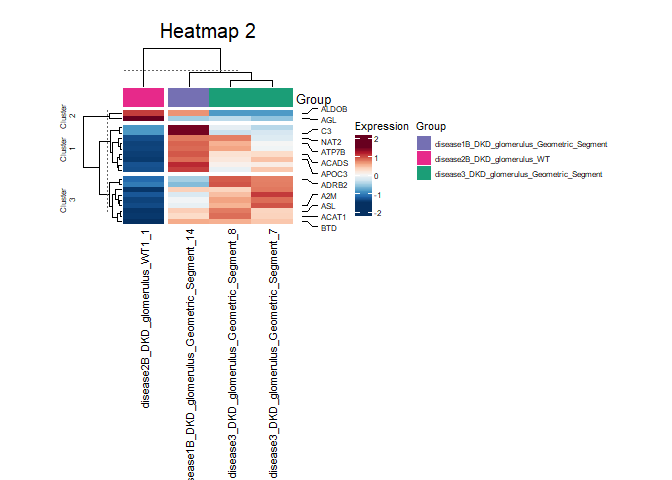
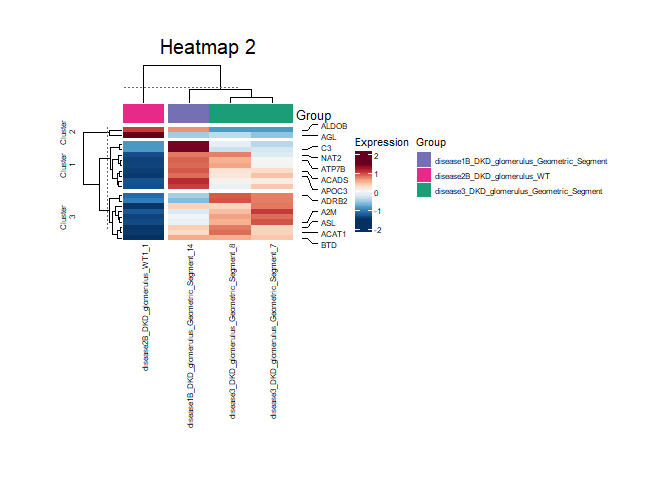
added defaults to adv_Heatmap() parameters

Changed region(s): [[0.1562, 0.0312, 0.9062, 1.0], [0.0625, 0.2188, 0.125, 0.375], [0.0625, 0.4062, 0.125, 0.4688]]

diff --git a/README.md b/README.md
@@ -353,36 +353,39 @@ generate a heatmap is the input matrix as shown below.
 
 ``` r
 # default settings of the parameters
-seed <- 1                                             # sets seed
-column_name <- "Heatmap"                              # name for heatmap
-colorPalette <- NULL                                  # available color palettes from RColorBrewer ()
-cluster_method <- "hierarchical"                      # cluster methods, either "hierarchical" or "kmeans"
-distance_method <- "euclidean"                        # method for creating the distance matrix for hierarchical clustering
+ncounts_matrix <- scaled_counts                       # input matrix
+seed <- 1                                             # sets seed, default = 1
+column_name <- "Heatmap"                              # name for heatmap, default = "Heatmap"
+colorPalette <- NULL                                  # available color palettes from RColorBrewer (), default = NULL
+cluster_method <- "hierarchical"                      # cluster methods, either "hierarchical" or "kmeans", default = "hierarchical"
+distance_method <- "euclidean"                        # method for creating the distance matrix for hierarchical clustering, default = "euclidean"
 cluster_rows <- TRUE                                  # optional clustering of rows, default = TRUE
 cluster_columns <- FALSE                              # optional clustering of columns, default = FALSE
-k_row = NULL                                          # splitting of rows in heatmaps using k-means, would be an integer
-k_col = NULL                                          # splitting of columns in heatmaps using k-means, would be an integer
-sample_metadata <- NULL                               # dataframe containing the metadata information of the file
-annotation_colors <- NULL                             # list containing the column groups and the choosen colors for the column annotation per group
-annotation_name_side = "right"                        # optional change: side of annotation name
-show_row_names <- FALSE                               # optional change: show of rownames on = TRUE & off = FALSE
-show_column_names = TRUE                              # optional change: show of column names on = TRUE & off = FALSE
-row_annotation = FALSE                                # optional row annotation
-row_annotation_method = "auto"                        # set if row_annotation = TRUE: options are "auto" & "specific"
-row_anno_names = NULL                                 # set if row_annotation = TRUE & row_annotation_method = "specific: input list of specific genes for the row annotation
-row_anno_number = 5                                   # optional change: number of automatic row annotations per cluster
-fontsize_rowAnnotation = 8                            # optional change: fontsize of the optional row annotation
-fontsize_columnNames = 6                              # optional change: fontsize of the optional column names
-fontsize_rowNames = 4                                 # optional change: fontsize of the optional row names
+k_row = NULL                                          # splitting of rows in heatmaps using k-means, would be an integer, default = NULL
+k_col = NULL                                          # splitting of columns in heatmaps using k-means, would be an integer, default = NULL
+sample_metadata <- NULL                               # dataframe containing the metadata information of the file, default = NULL
+annotation_colors <- NULL                             # list containing the column groups and the choosen colors for the column annotation per group, default = NULL
+annotation_name_side = "right"                        # optional change: side of annotation name, default = "right"
+show_row_names <- FALSE                               # optional change: show of rownames on = TRUE & off = FALSE, default = FALSE
+show_column_names = TRUE                              # optional change: show of column names on = TRUE & off = FALSE, default = TRUE
+row_annotation = FALSE                                # optional row annotation, default = FALSE
+row_annotation_method = "auto"                        # set if row_annotation = TRUE: options are "auto" & "specific", default = "auto"
+row_anno_names = NULL                                 # set if row_annotation = TRUE & row_annotation_method = "specific: input list of specific genes for the row annotation, default = NULL
+row_anno_number = 5                                   # optional change: number of automatic row annotations per cluster, default = 5
+fontsize_title = 15                                   # optional change: fontsize the heatmap title, default = 15
+fontsize_rowAnnotation = 8                            # optional change: fontsize of the optional row annotation, default = 8
+fontsize_columnNames = 6                              # optional change: fontsize of the optional column names, default = 6
+fontsize_rowNames = 4                                 # optional change: fontsize of the optional row names, default = 4
 fontsize_cluster_labels = 8                           # optional change: fontsize of the cluster labels, default = 8
+fontsize_group_annotation = 8                         # optional change: font size of the group annotation title, default = 8.
 fontsize_group_annotation_legend = 10                 # optional change: fontsize of optional group annotation legend title, default = 10
 fontsize_group_annotation_labels = 8                  # optional change: fontsize of optional group annotation legend labels, default = 8
-fontsize_heatmap_legend = 10                          # optional change: fontsize of heatmap legend, default = 10
+fontsize_heatmap_legend = 8                           # optional change: fontsize of heatmap legend, default = 10
 fontsize_heatmap_legend_labels = 8                    # optional change: fontsize of heatmap legend labels, default = 8
 title_heatmapLegend = "Expression"                    # changeable title of the legend, default "Expression"
-WidthNum = 4.5                                        # optional change of heatmap width
-HeightNum = 3                                         # optional change of heatmap height
-UnitSize = "cm"                                       # optional change of heatmap unit for sizes
+WidthNum = 4.5                                        # optional change of heatmap width, default = 4.5
+HeightNum = 3                                         # optional change of heatmap height, default = 3
+UnitSize = "cm"                                       # optional change of heatmap unit for sizes, default = "cm"
 
 # Using the adv_Heatmap() function with only the input matrix file. All other parameters use their default option.
 hm <- adv_Heatmap(scaled_counts)
@@ -442,39 +445,40 @@ and custom heatmap:
 ``` r
 # parameters and their options in adv_Heatmap()
 ncounts_matrix <- scaled_counts                       # input matrix
-seed <- 1                                             # sets seed
-column_name <- "Heatmap 1"                            # name for heatmap
-colorPalette <- "RdBu"                                # available color palettes from RColorBrewer ()
-cluster_method <- "hierarchical"                      # cluster methods, either "hierarchical" or "kmeans"
-distance_method <- "euclidean"                        # method for creating the distance matrix for hierarchical clustering
+seed <- 1                                             # sets seed, default = 1
+column_name <- "Heatmap 1"                              # name for heatmap, default = "Heatmap"
+colorPalette <- "RdBu"                                # available color palettes from RColorBrewer (), default = NULL
+cluster_method <- "hierarchical"                      # cluster methods, either "hierarchical" or "kmeans", default = "hierarchical"
+distance_method <- "euclidean"                        # method for creating the distance matrix for hierarchical clustering, default = "euclidean"
 cluster_rows <- TRUE                                  # optional clustering of rows, default = TRUE
-cluster_columns <- FALSE                               # optional clustering of columns, default = FALSE
-k_row = NULL                                          # splitting of rows in heatmaps using k-means, would be an integer
-k_col = NULL                                          # splitting of columns in heatmaps using k-means, would be an integer
-sample_metadata <- sample_metadata                    # dataframe containing the metadata information of the file
-annotation_colors <- group_colors                     # list containing the column groups and the choosen colors for the column annotation per group
+cluster_columns <- FALSE                              # optional clustering of columns, default = FALSE
+k_row = NULL                                          # splitting of rows in heatmaps using k-means, would be an integer, default = NULL
+k_col = NULL                                          # splitting of columns in heatmaps using k-means, would be an integer, default = NULL
+sample_metadata <- sample_metadata                               # dataframe containing the metadata information of the file, default = NULL
+annotation_colors <- group_colors                     # list containing the column groups and the choosen colors for the column annotation per group, default = NULL
 annotation_name_side = "right"                        # optional change: side of annotation name, default = "right"
-show_row_names <- TRUE                                # optional change: show of rownames on = TRUE & off = FALSE, default = FALSE
+show_row_names <- TRUE                               # optional change: show of rownames on = TRUE & off = FALSE, default = FALSE
 show_column_names = TRUE                              # optional change: show of column names on = TRUE & off = FALSE, default = TRUE
 row_annotation = FALSE                                # optional row annotation, default = FALSE
-row_annotation_method = "auto"                        # set if row_annotation = TRUE: options are "auto" & "specific"
-row_anno_names = NULL                                 # set if row_annotation = TRUE & row_annotation_method = "specific: input list of specific genes for the row annotation
-row_anno_number = 5                                   # optional change: number of automatic row annotations per cluster
+row_annotation_method = "auto"                        # set if row_annotation = TRUE: options are "auto" & "specific", default = "auto"
+row_anno_names = NULL                                 # set if row_annotation = TRUE & row_annotation_method = "specific: input list of specific genes for the row annotation, default = NULL
+row_anno_number = 5                                   # optional change: number of automatic row annotations per cluster, default = 5
 fontsize_title = 15                                   # optional change: fontsize the heatmap title, default = 15
 fontsize_rowAnnotation = 8                            # optional change: fontsize of the optional row annotation, default = 8
 fontsize_columnNames = 6                              # optional change: fontsize of the optional column names, default = 6
 fontsize_rowNames = 4                                 # optional change: fontsize of the optional row names, default = 4
 fontsize_cluster_labels = 8                           # optional change: fontsize of the cluster labels, default = 8
-fontsize_group_annotation_legend = 10                 # optional change: fontsize of optional group annotation legend title, default = 10
+fontsize_group_annotation = 9                         # optional change: font size of the group annotation title, default = 8.
+fontsize_group_annotation_legend = 9                 # optional change: fontsize of optional group annotation legend title, default = 10
 fontsize_group_annotation_labels = 8                  # optional change: fontsize of optional group annotation legend labels, default = 8
-fontsize_heatmap_legend = 10                          # optional change: fontsize of heatmap legend, default = 10
+fontsize_heatmap_legend = 9                           # optional change: fontsize of heatmap legend, default = 10
 fontsize_heatmap_legend_labels = 8                    # optional change: fontsize of heatmap legend labels, default = 8
 title_heatmapLegend = "Expression"                    # changeable title of the legend, default "Expression"
 WidthNum = 4.5                                        # optional change of heatmap width, default = 4.5
 HeightNum = 3                                         # optional change of heatmap height, default = 3
 UnitSize = "cm"                                       # optional change of heatmap unit for sizes, default = "cm"
 
-hm <- adv_Heatmap(ncounts_matrix, seed = seed, column_name = column_name, colorPalette = colorPalette, cluster_method = cluster_method, cluster_rows = cluster_rows, cluster_columns = cluster_columns, k_row = k_row, k_col = k_col, sample_metadata = sample_metadata, annotation_colors = annotation_colors, annotation_name_side = annotation_name_side, show_row_names = show_row_names, show_column_names = show_column_names, row_annotation = row_annotation, row_annotation_method = row_annotation_method, row_anno_names = row_anno_names ,row_anno_number = row_anno_number, fontsize_title = fontsize_title, fontsize_rowAnnotation = fontsize_rowAnnotation, fontsize_columnNames = fontsize_columnNames, fontsize_rowNames = fontsize_rowNames, fontsize_cluster_labels = fontsize_cluster_labels, fontsize_group_annotation_legend = fontsize_group_annotation_legend, fontsize_group_annotation_labels = fontsize_group_annotation_labels, fontsize_heatmap_legend = fontsize_heatmap_legend, fontsize_heatmap_legend_labels = fontsize_heatmap_legend_labels, title_heatmapLegend = title_heatmapLegend, WidthNum = WidthNum, HeightNum = HeightNum, UnitSize = UnitSize)
+hm <- adv_Heatmap(ncounts_matrix, seed = seed, column_name = column_name, colorPalette = colorPalette, cluster_method = cluster_method, cluster_rows = cluster_rows, cluster_columns = cluster_columns, k_row = k_row, k_col = k_col, sample_metadata = sample_metadata, annotation_colors = annotation_colors, annotation_name_side = annotation_name_side, show_row_names = show_row_names, show_column_names = show_column_names, row_annotation = row_annotation, row_annotation_method = row_annotation_method, row_anno_names = row_anno_names ,row_anno_number = row_anno_number, fontsize_title = fontsize_title, fontsize_rowAnnotation = fontsize_rowAnnotation, fontsize_columnNames = fontsize_columnNames, fontsize_rowNames = fontsize_rowNames, fontsize_cluster_labels = fontsize_cluster_labels, fontsize_group_annotation = fontsize_group_annotation, fontsize_group_annotation_legend = fontsize_group_annotation_legend, fontsize_group_annotation_labels = fontsize_group_annotation_labels, fontsize_heatmap_legend = fontsize_heatmap_legend, fontsize_heatmap_legend_labels = fontsize_heatmap_legend_labels, title_heatmapLegend = title_heatmapLegend, WidthNum = WidthNum, HeightNum = HeightNum, UnitSize = UnitSize)
 ```
 
 <img src="man/figures/README-exampleadv_heatmap-1.png" width="100%" />
@@ -484,35 +488,36 @@ Clustering:
 
 ``` r
 # parameters and their options in adv_heatmap()
+
 ncounts_matrix <- scaled_counts                       # input matrix
-seed <- 1                                             # sets seed
-column_name <- "Heatmap 2"                            # name for heatmap
-colorPalette <- "RdBu"                                # available color palettes from RColorBrewer ()
-cluster_method <- "kmeans"                            # cluster methods, either "hierarchical" or "kmeans"
-distance_method <- "euclidean"                        # method for creating the distance matrix for hierarchical clustering
+seed <- 1                                             # sets seed, default = 1
+column_name <- "Heatmap 2"                              # name for heatmap, default = "Heatmap"
+colorPalette <- "RdBu"                                # available color palettes from RColorBrewer (), default = NULL
+cluster_method <- "kmeans"                      # cluster methods, either "hierarchical" or "kmeans", default = "hierarchical"
+distance_method <- "euclidean"                        # method for creating the distance matrix for hierarchical clustering, default = "euclidean"
 cluster_rows <- TRUE                                  # optional clustering of rows, default = TRUE
-cluster_columns <- TRUE                               # optional clustering of columns, default = FALSE
-k_row = 3                                             # splitting of rows in heatmaps using k-means, would be an integer
-k_col = 2                                             # splitting of columns in heatmaps using k-means, would be an integer
-sample_metadata <- sample_metadata                    # dataframe containing the metadata information of the file
-annotation_colors <- group_colors                     # list containing the column groups and the choosen colors for the column annotation per group
+cluster_columns <- TRUE                              # optional clustering of columns, default = FALSE
+k_row = 3                                          # splitting of rows in heatmaps using k-means, would be an integer, default = NULL
+k_col = 2                                          # splitting of columns in heatmaps using k-means, would be an integer, default = NULL
+sample_metadata <- sample_metadata                               # dataframe containing the metadata information of the file, default = NULL
+annotation_colors <- group_colors                     # list containing the column groups and the choosen colors for the column annotation per group, default = NULL
 annotation_name_side = "right"                        # optional change: side of annotation name, default = "right"
 show_row_names <- FALSE                               # optional change: show of rownames on = TRUE & off = FALSE, default = FALSE
 show_column_names = TRUE                              # optional change: show of column names on = TRUE & off = FALSE, default = TRUE
-row_annotation = TRUE                                 # optional row annotation, default = FALSE
-row_annotation_method = "auto"                        # set if row_annotation = TRUE: options are "auto" & "specific"
-row_anno_names = NULL                                 # set if row_annotation = TRUE & row_annotation_method = "specific: input list of specific genes for the row annotation
-row_anno_number = 5                                   # optional change: number of automatic row annotations per cluster
-fontsize_title = 15                                   # optional change: font size the heatmap title, default = 15
-fontsize_rowAnnotation = 6                            # optional change: font size of the optional row annotation, default = 8
-fontsize_columnNames = 8                              # optional change: font size of the optional column names, default = 6
-fontsize_rowNames = 4                                 # optional change: font size of the optional row names, default = 4
-fontsize_cluster_labels = 6                           # optional change: font size of the cluster labels, default = 8
-fontsize_group_annotation = 10                        # optional change: font size of the group annotation title, default = 8.
-fontsize_group_annotation_legend = 8                  # optional change: font size of optional group annotation legend title, default = 10
-fontsize_group_annotation_labels = 6                  # optional change: font size of optional group annotation legend labels, default = 8
-fontsize_heatmap_legend = 8                           # optional change: font size of heatmap legend, default = 10
-fontsize_heatmap_legend_labels = 6                    # optional change: font size of heatmap legend labels, default = 8
+row_annotation = TRUE                                # optional row annotation, default = FALSE
+row_annotation_method = "auto"                        # set if row_annotation = TRUE: options are "auto" & "specific", default = "auto"
+row_anno_names = NULL                                 # set if row_annotation = TRUE & row_annotation_method = "specific: input list of specific genes for the row annotation, default = NULL
+row_anno_number = 5                                   # optional change: number of automatic row annotations per cluster, default = 5
+fontsize_title = 15                                   # optional change: fontsize the heatmap title, default = 15
+fontsize_rowAnnotation = 6                            # optional change: fontsize of the optional row annotation, default = 8
+fontsize_columnNames = 6                              # optional change: fontsize of the optional column names, default = 6
+fontsize_rowNames = 4                                 # optional change: fontsize of the optional row names, default = 4
+fontsize_cluster_labels = 6                           # optional change: fontsize of the cluster labels, default = 8
+fontsize_group_annotation = 10                         # optional change: font size of the group annotation title, default = 8.
+fontsize_group_annotation_legend = 8                 # optional change: fontsize of optional group annotation legend title, default = 10
+fontsize_group_annotation_labels = 6                  # optional change: fontsize of optional group annotation legend labels, default = 8
+fontsize_heatmap_legend = 8                           # optional change: fontsize of heatmap legend, default = 10
+fontsize_heatmap_legend_labels = 6                    # optional change: fontsize of heatmap legend labels, default = 8
 title_heatmapLegend = "Expression"                    # changeable title of the legend, default "Expression"
 WidthNum = 4.5                                        # optional change of heatmap width, default = 4.5
 HeightNum = 3                                         # optional change of heatmap height, default = 3
